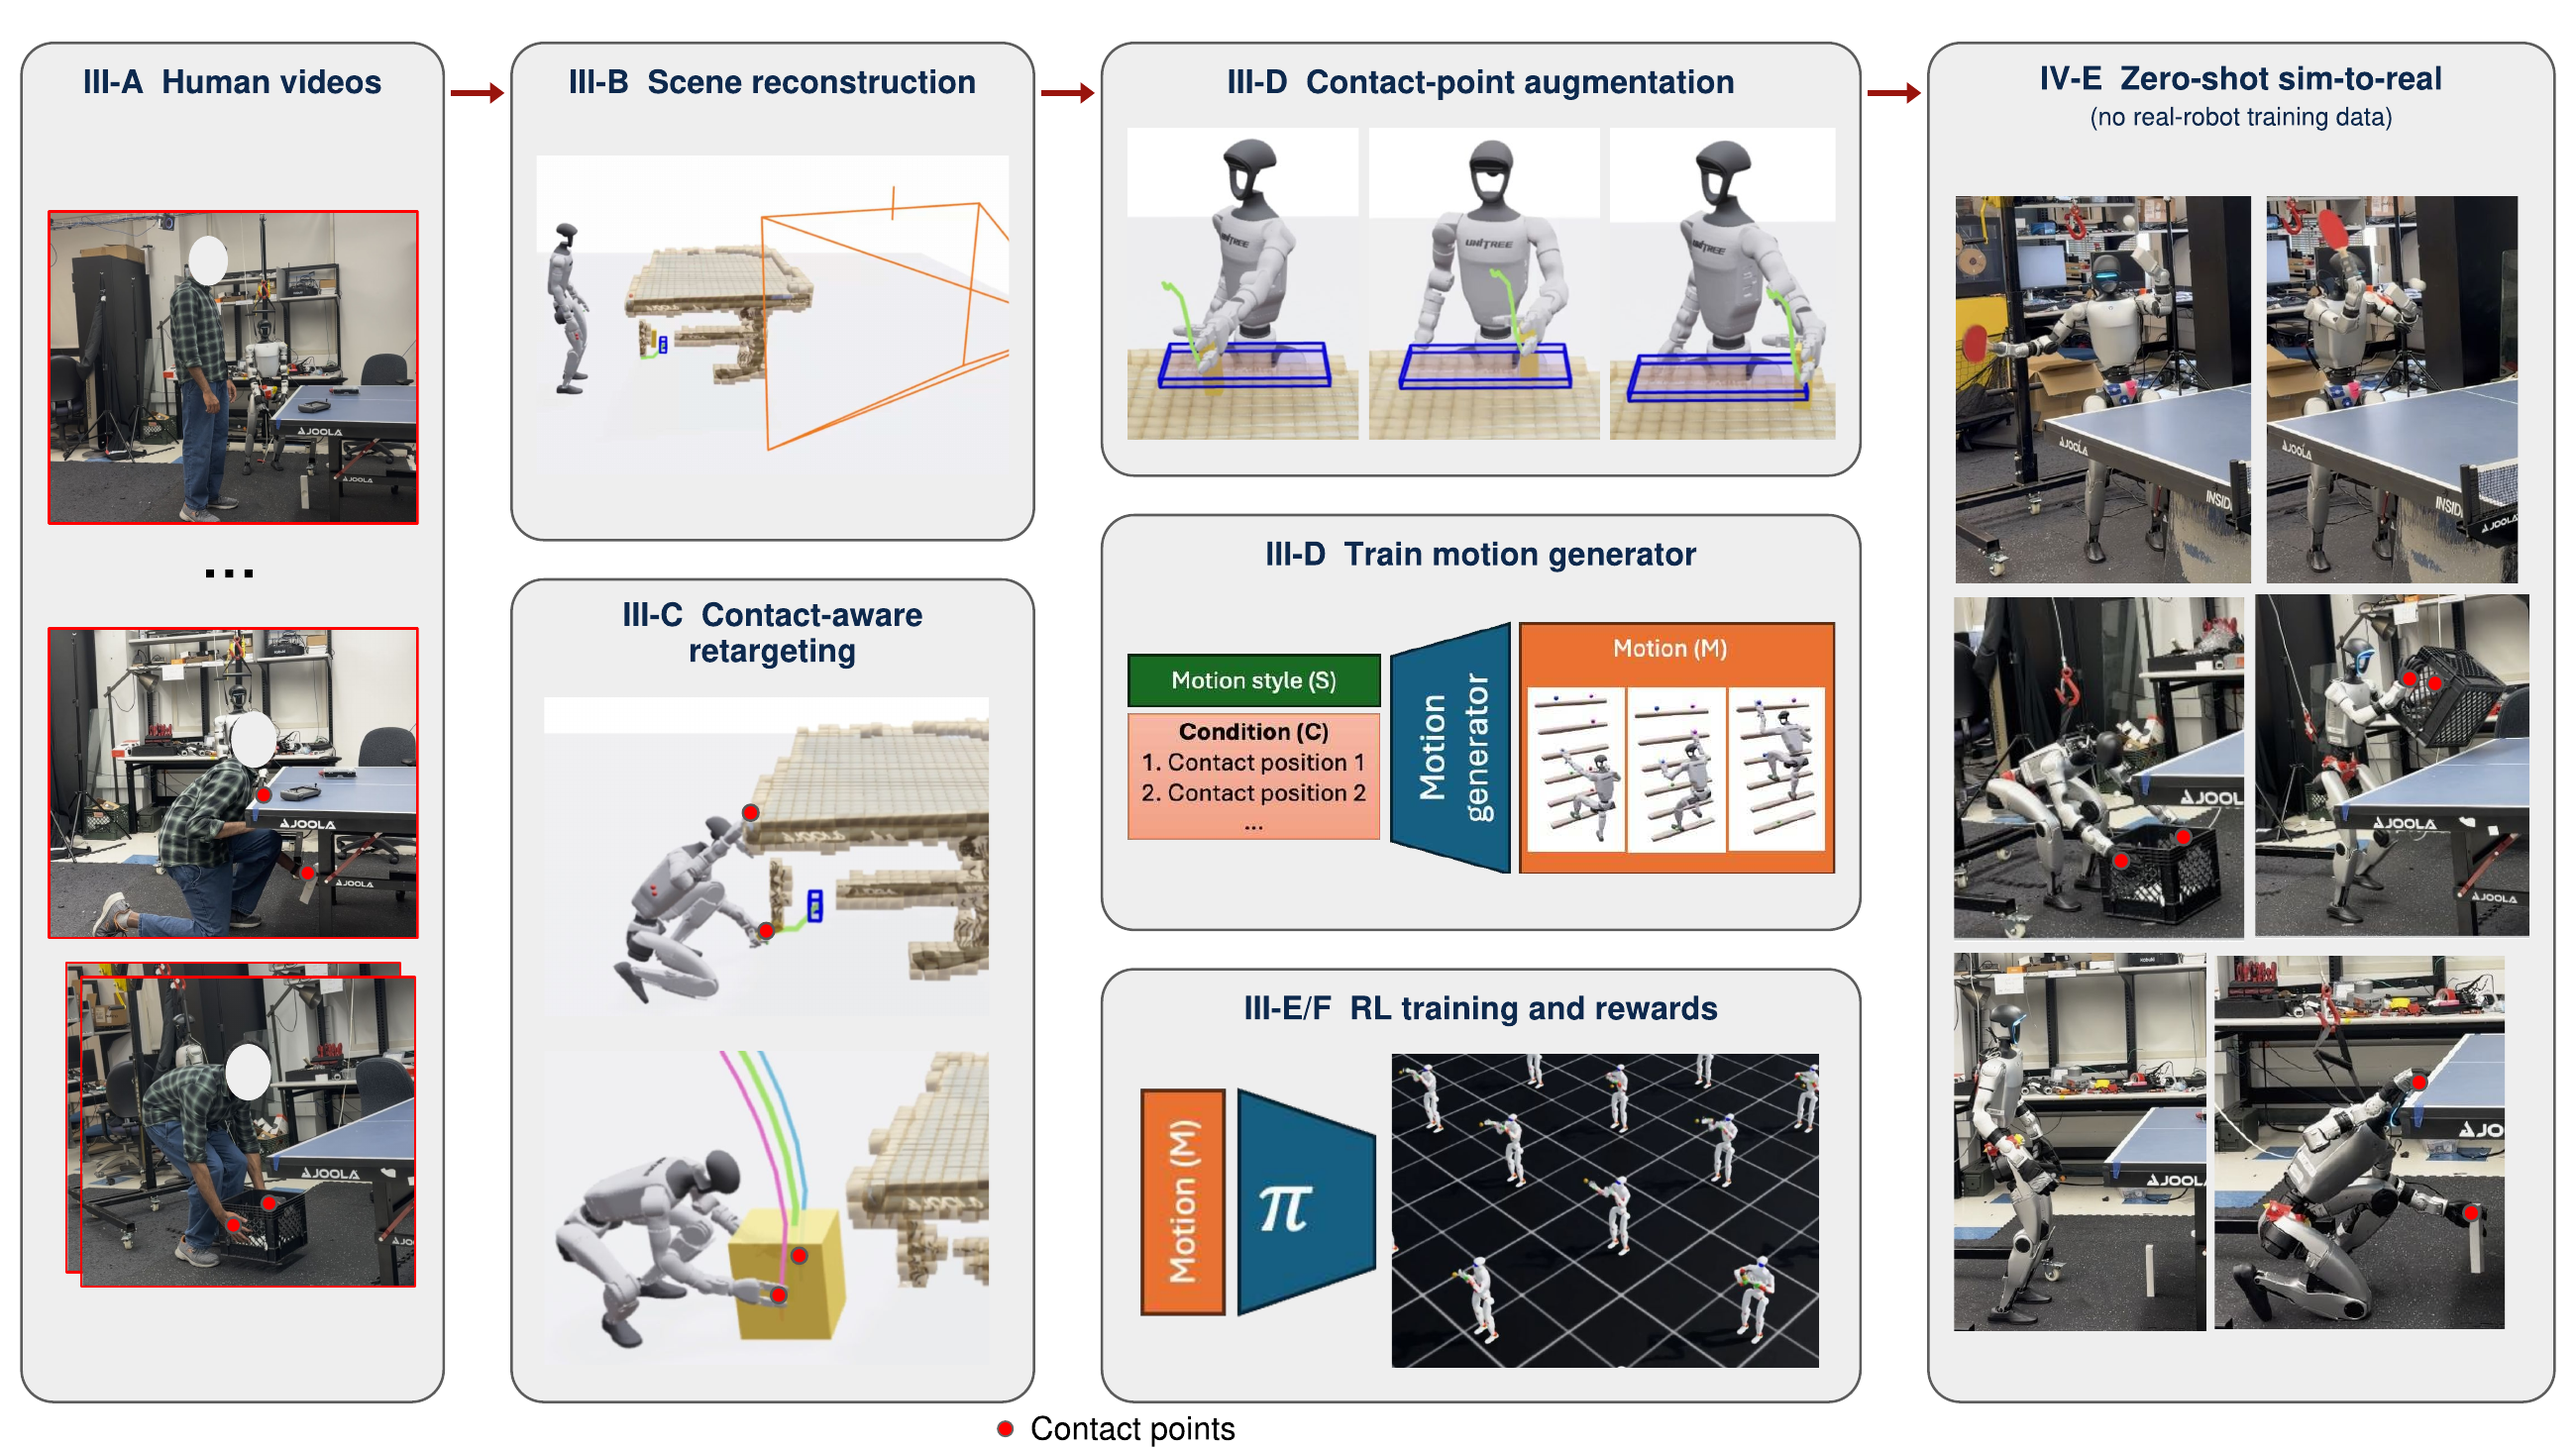
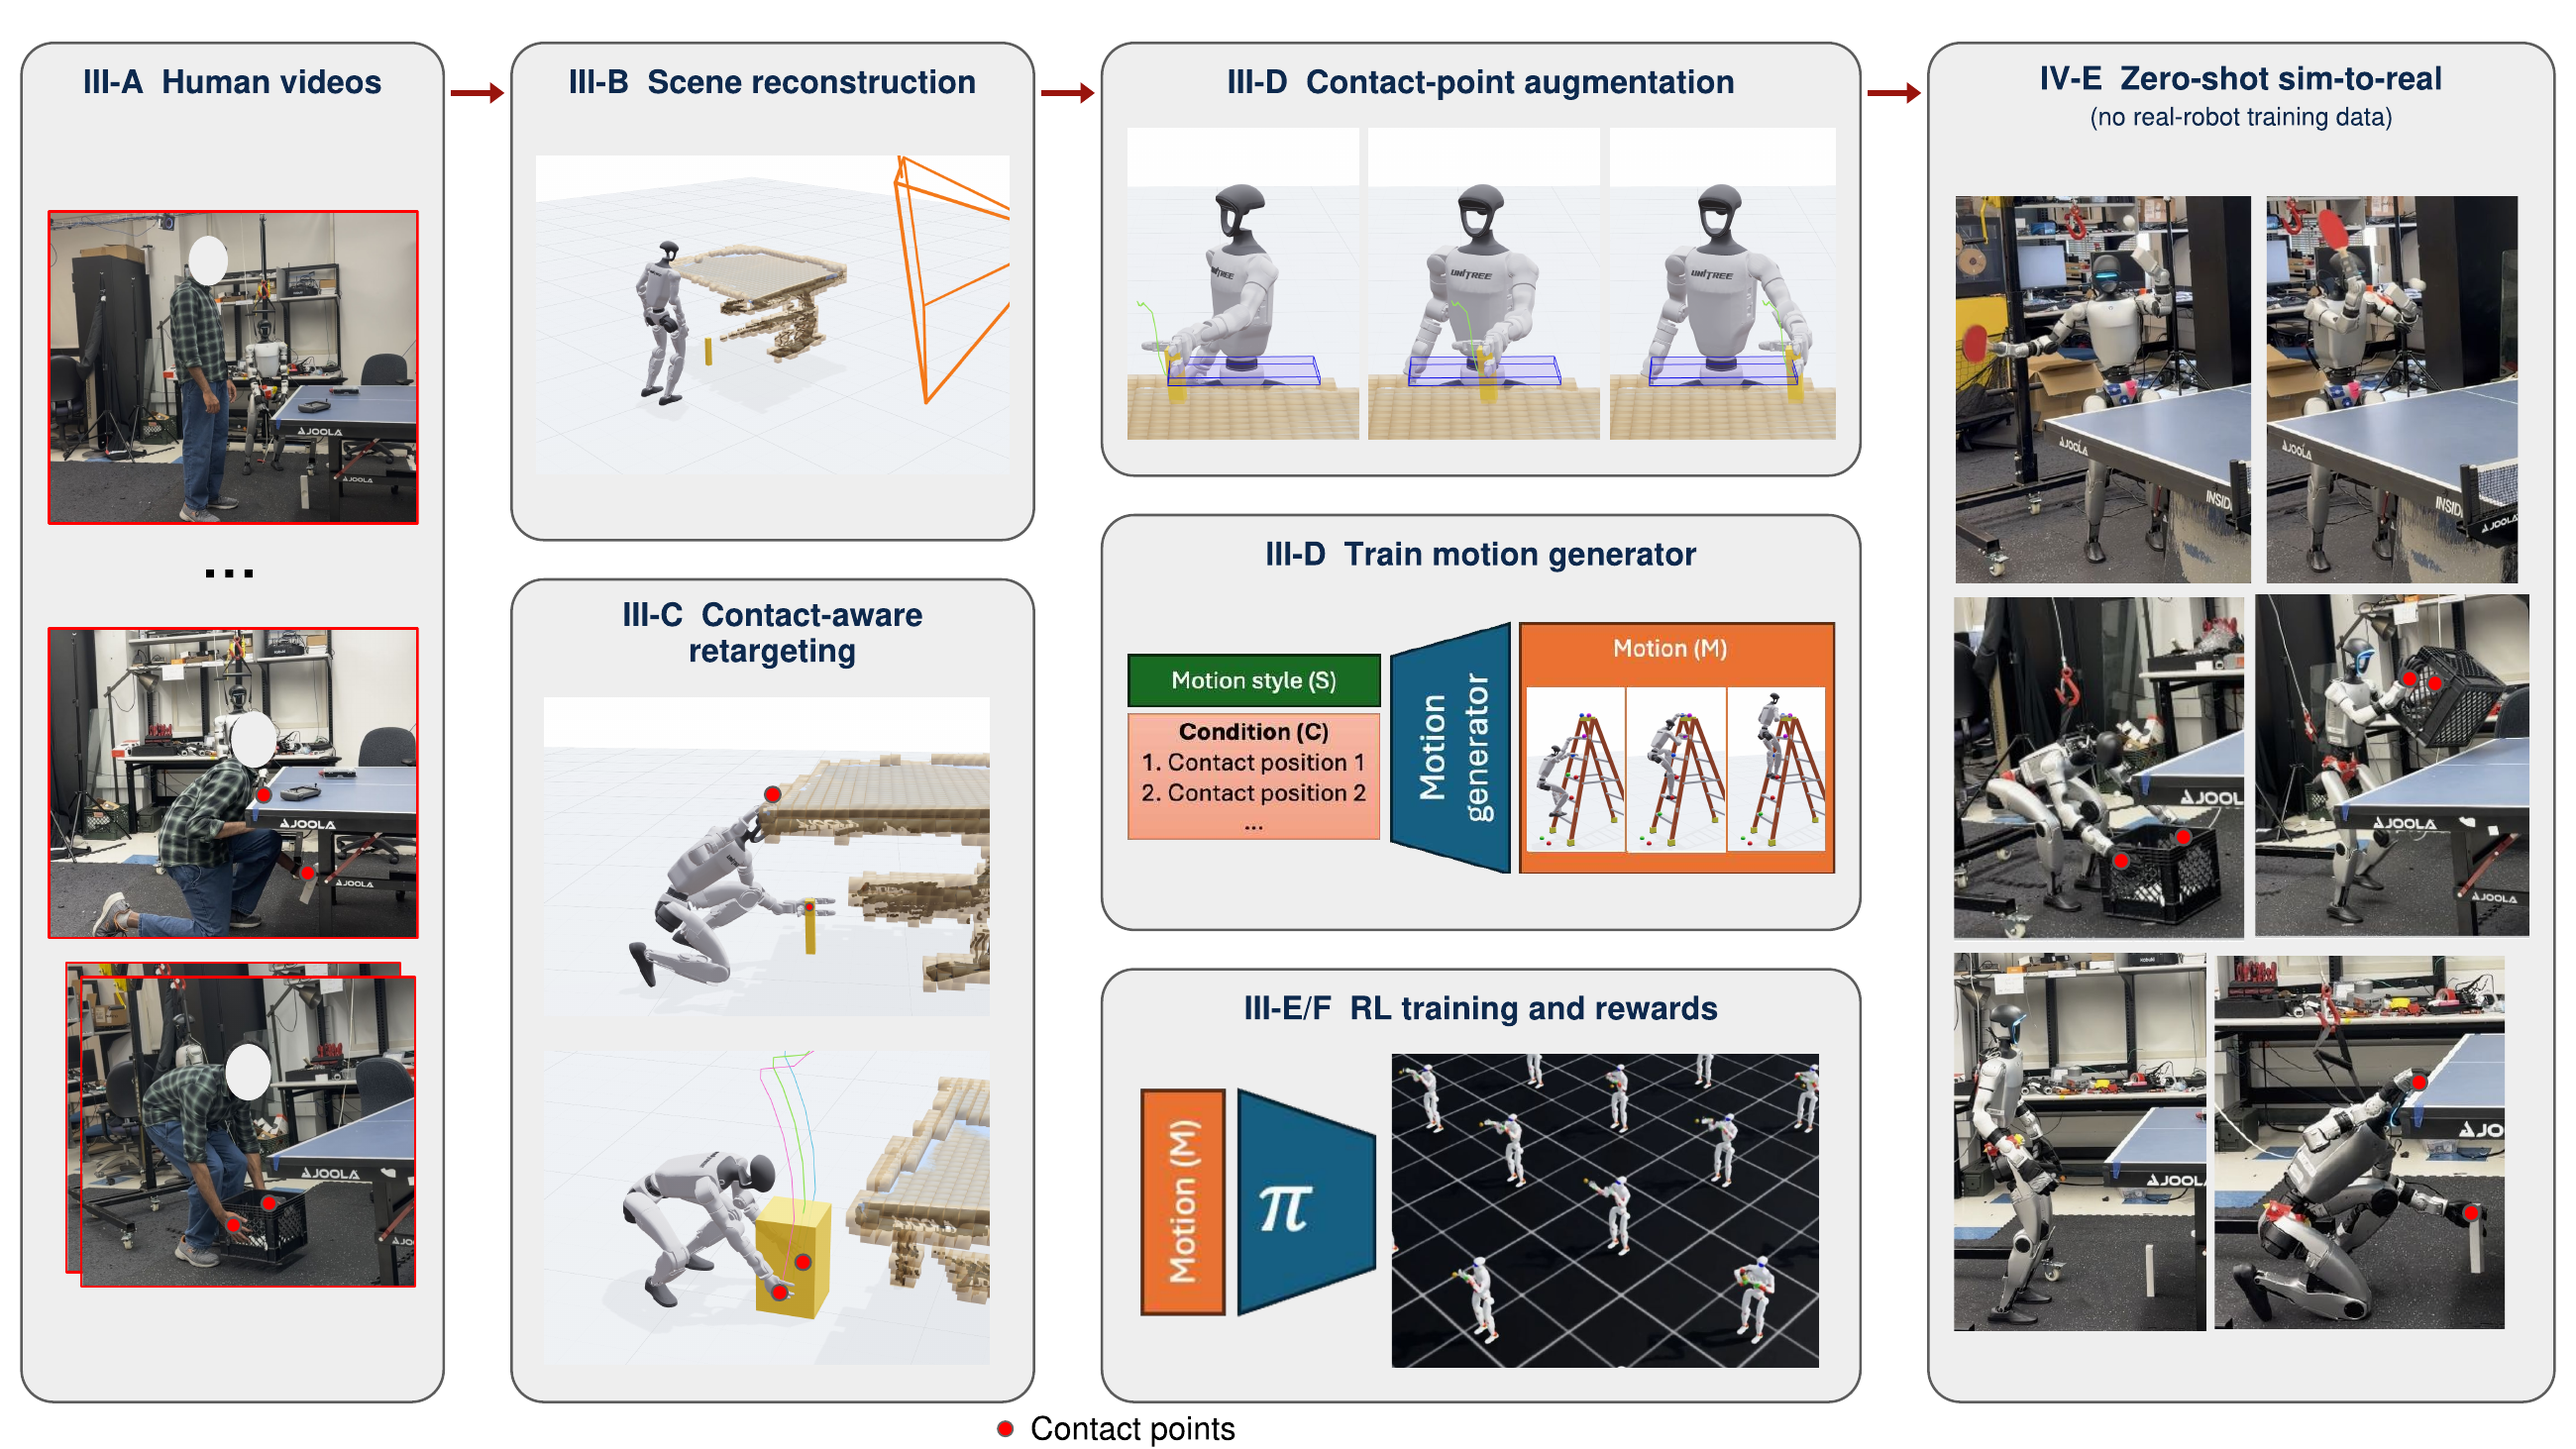
Replace overview figure with updated Viser renders

diff --git a/index.html b/index.html
@@ -8,7 +8,7 @@
   <meta property="og:title" content="VICAR — Video Imitation with Contact-Aware Retargeting">
   <meta property="og:description" content="From human video to contact-rich humanoid skills. Explore the method, ten skills, and interactive contact-point augmentation.">
   <meta property="og:type" content="website">
-  <meta property="og:image" content="https://ember-center-berkeley.github.io/VICAR/assets/images/overview.png">
+  <meta property="og:image" content="https://ember-center-berkeley.github.io/VICAR/assets/images/overview.png?v=updated-viser-20261015">
   <title>VICAR | Video Imitation with Contact-Aware Retargeting</title>
   <link rel="icon" href="assets/images/favicon.svg" type="image/svg+xml">
   <link rel="stylesheet" href="assets/style.css?v=serve-grid-ladder-label-20261015">
@@ -56,7 +56,7 @@
 
     <section id="overview" class="section container" aria-labelledby="overview-title">
       <div class="section-heading centered"><p class="eyebrow">From observation to execution</p><h2 id="overview-title">A pipeline built around contact</h2></div>
-      <figure class="overview-figure"><a href="assets/images/overview.png" target="_blank" rel="noopener" aria-label="Open full-resolution VICAR overview figure"><img src="assets/images/overview.png" width="2600" height="1463" alt="VICAR pipeline: human videos and scene reconstruction feed contact-aware retargeting, contact-point augmentation, a motion generator, reinforcement learning, and zero-shot deployment on a humanoid robot." loading="lazy"></a><figcaption><strong>VICAR overview.</strong> Third-person human video becomes a contact-aware robot reference. Augmented contact points train a motion generator, whose outputs are tracked by a policy on the robot.</figcaption></figure>
+      <figure class="overview-figure"><a href="assets/images/overview.png?v=updated-viser-20261015" target="_blank" rel="noopener" aria-label="Open full-resolution VICAR overview figure"><img src="assets/images/overview.png?v=updated-viser-20261015" width="2600" height="1463" alt="VICAR pipeline: human videos and scene reconstruction feed contact-aware retargeting, contact-point augmentation, a motion generator, reinforcement learning, and zero-shot deployment on a humanoid robot." loading="lazy"></a><figcaption><strong>VICAR overview.</strong> Third-person human video becomes a contact-aware robot reference. Augmented contact points train a motion generator, whose outputs are tracked by a policy on the robot.</figcaption></figure>
       <div class="pipeline-steps"><div><span>01</span><h3>Recover</h3><p>Human motion and task-relevant scene geometry from video.</p></div><div><span>02</span><h3>Retarget</h3><p>Preserve global contacts, motion speed, and collision clearance.</p></div><div><span>03</span><h3>Augment</h3><p>Vary contact locations while retaining the demonstrated skill.</p></div><div><span>04</span><h3>Execute</h3><p>Track contact-conditioned references on the humanoid.</p></div></div>
     </section>
 

diff --git a/README.md b/README.md
@@ -44,7 +44,7 @@ Edit **`assets/content.js`**. Video sources, project links, and authors are cent
 - **Links:** edit `links.arxiv`, `links.paper`, and `links.video`. The arXiv button opens [arXiv:2610.13079](https://arxiv.org/abs/2610.13079); the Paper button opens the repository-hosted [VICAR PDF](assets/papers/VICAR.pdf), updated from the supplied `VICAR_ICRA_2027 (2).pdf` on 15 October 2026. The code button points to the VICAR repository. Keep the navigation fallback links in `index.html` in sync.
 - **Authors:** populate `authors` with `{ "name": "Author Name", "url": "https://…" }` objects and set `affiliations`. These are omitted initially because the supplied paper does not specify a byline.
 - **Abstract:** copied from the supplied manuscript. Edit `abstract` to replace it. It sits collapsed under three cards (the gap, the idea, the result) whose text is a summary written in `index.html`; check that wording against the paper. Their images, `assets/images/idea-*.jpg`, are crops of the overview figure and can be swapped for sharper frames.
-- **Overview figure:** replace `assets/images/overview.png`. The supplied image is rendered from `figures/overview1_rebuttal.pdf` in the manuscript workspace. Keep its aspect ratio or update the image dimensions in `index.html`.
+- **Overview figure:** replace `assets/images/overview.png`. The image is rendered at 2600 × 1463 from `output/pdf/overview1_rebuttal_updated_viser.pdf` in the manuscript workspace (updated 15 October 2026). Keep its aspect ratio or update the image dimensions in `index.html`.
 - **Hero background:** `assets/content.js` keeps both examples in `window.VICAR_HERO_PRESETS`. The active setting is `"hero": window.VICAR_HERO_PRESETS["ladder-climbing"]`; change that key to `"under-table-pickup"` to restore the saved pickup version. Each preset includes the muted H.264 loop, reduced-motion poster, and matching human demonstration card. If neither video nor poster loads, the hero falls back to centered text.
   - **Ladder (active):** the supplied 2026-10-08 Viser scene, full 605-frame reference motion at 50 fps, white background, faint floor grid, and red package contact guides. The camera fits the complete climb in the right third. `scripts/render_ladder_hero.py` regenerates the frames; `assets/videos/hero-ladder-climbing.json` records rendering and source details. The human image is a crop at 5 seconds of the existing climbing comparison's left panel.
   - **Under-table pickup (saved):** maximum X/Y (0.05/0.10 m), Z = −0.05 m, fixed table support dot, and an object dot that follows the cuboid's position and rotation. Its fixed right Unitree hand, additional 3 cm hero table shift, human image, video, poster, and renderer are preserved. Use `scripts/render_under_table_hero.py`; settings remain in `assets/videos/hero-under-table-pickup.json`.
